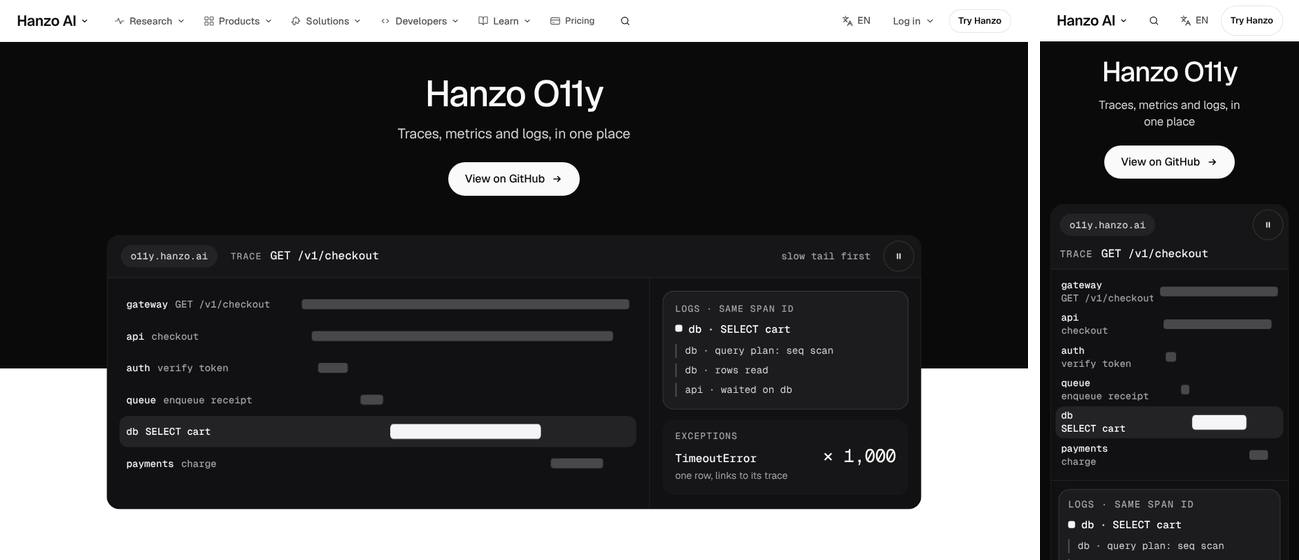
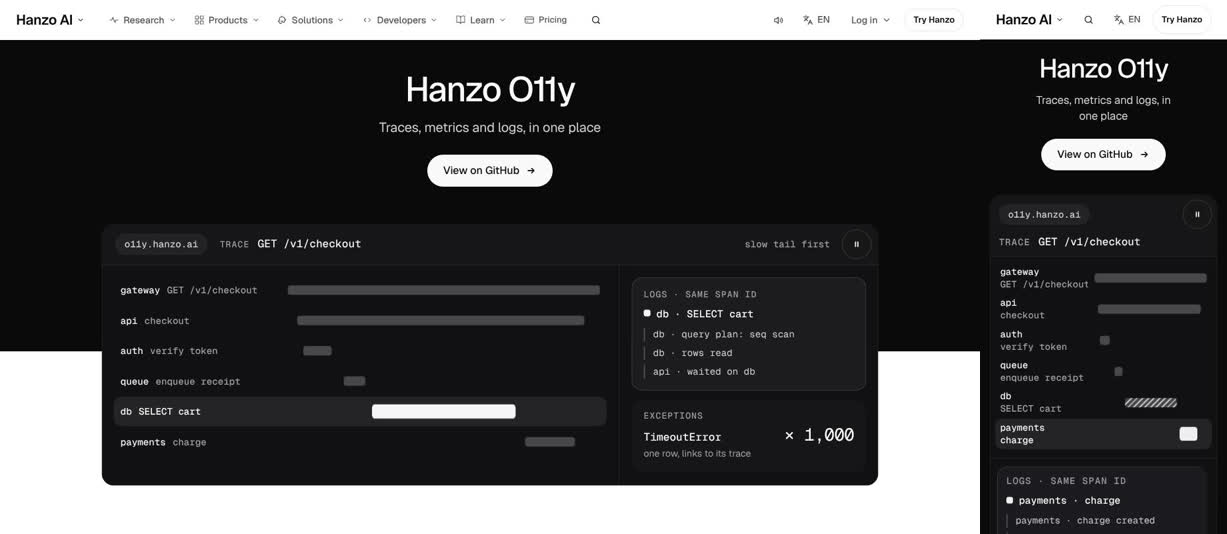
re-review: /o11y 6/10 after the system merge (hero window jumps, header ask turned hollow, labels over chapter heads)
Claude-Session: https://claude.ai/code/session_01DqUybEnABm6Lfey1goid2b

diff --git a/docs/review/o11y.md b/docs/review/o11y.md
@@ -1,66 +1,173 @@
 # /o11y: James-eye review
 
-Verdict: 7/10
-First complaint: "The top is right: our product, moving, one button. But every few seconds the window jumps and everything under it moves. Then it's the same page as Registry and MQ again: a white window, a little number over a heading, a row of dashes, a grey room, a paste box, two cards, Get O11y. Those tabs in the window look like I can click them and nothing happens. And once I'm past the top there's no button to get it."
+Verdict: 6/10
+First complaint: "The top's still the best bit: our product in the dark, moving, one button. But that window still jumps every few seconds. Then it's the Metrics page again, a white window with a little number over each heading, and it just sits there until I scroll. And the Try Hanzo button is switched off on this page, so once I'm past the top there's nothing to press."
 
-Reviewed: branch `claude/elegant-johnson-b2vx1q`. First walk @ `6c7583d` (page files as committed in `ade8095` + `c9784eb`), re-walked @ `3f456ca` after the Cloud 3 kit moved to MASTER.md (h1 52, deck greys). The page files are identical at both: hash `eade685f0c83`. The verdict is on the `3f456ca` state. At 14:55 the builder had uncommitted edits to `O11y.jsx`, `O11y.css` and `app/o11y/page.jsx` in the tree (a split head, a playhead); those are not reviewed.
-Walked 7 Nov 14:30–14:58 UTC on the dev server, moving, at 1470×801, 375×812 and 390×664. I recorded videos, frame sheets, per-stop audits, hover/press and tap probes, and a 13-second hero height log. The once-per-visit loader was skipped. The bar moved during the review: JAMES.md and MASTER.md changed at 14:37–14:45 (scale rhythm, the ask in the sticky header, nothing floating). Both walks are judged against the current text.
-Proof: `img/o11y.jpg` (desktop first screen | phone first screen, `3f456ca`).
+Reviewed: main @ `648b798` (last page commit `c9784eb`). Files hash: `d85c8f13fa2a`
+Walked 7 Nov 15:09–15:14 UTC on the dev server, moving, at 1470×801 and 375×812 (videos, frame sheets and a frame-difference motion log kept by the critic; the site loader was skipped).
+Proof: `img/o11y.jpg` (desktop first screen | phone first screen).
+
+## Since the last review
+- **No page change.** The five page files are byte-identical to the `3f456ca` build the last review judged; the last page commit is still `c9784eb` (14:33). What changed is the shared system (`648b798`, 15:06) and the rules. Under the 14:40 rules any banned-list item caps a page at 6, and a false card claim caps it at 7. So the 7 becomes a 6 with nothing on the page getting worse.
+- **Done, by the system fix:** nothing floats. No fixed button shows at any desktop stop (s1–s13), the walk's float list is empty at both widths, and there is no cursor label. On phone the new quiet "View on GitHub" bar shows only in the chapters (s2–s5), over empty white. Also passing now: no hue at either width, 0 console errors, 0 title tooltips, and the type has rhythm (answer 4).
+- **Still open: the jump.** The payments span still has 2 log lines and the others have 3. The window's bottom edge moves from y 726 to y 704 when the pivot goes from db to payments (desktop film, 6.0 s against 6.5 s). Desktop CLS blames `div.ob-pv-exc` and the whole pinned section under it. The pivot also still loops forever (`useSteps` runs `(v + 1) % n`); MASTER §4.1 says run once for 6–10 s, then settle.
+- **Still open: the ask.** `O11y.css` line 6 still forces the header's "Try Hanzo" to an outline. Since `648b798` the header *is* the ask: SYSTEM.md §5 says "It stays solid; it never outlines or fades". So desktop s1–s10 show no solid button at all. /metrics, walked at the same commit, shows the header solid on every screen.
+- **Still open:**
+  - the fake suite tabs;
+  - the six panes that only fade in and then stand still (desktop s1–s7 and phone s1–s5 measure shotdiff 0);
+  - 4317/4318 shown twice in a row;
+  - "What you keep" reprinting the chapter text word for word;
+  - no hover on "hanzoai/o11y 4 stars" or on the console's title.
 
 ## The 11 answers
-1. **Sells in 5 seconds, moves within 1 second?** Yes, and it's the best part of the page. "Hanzo O11y / Traces, metrics and logs, in one place / View on GitHub" sits over a dark trace window. The whole waterfall is on the first screen at 1470×801 and 375×812. First paint is about 0.8 s on the dev server. The title cuts in and the six bars draw at paint. Then the pivot opens a span's logs every 3.8 s. Hovering a span previews it, a click holds it, and pause stops it. One catch: at 1470×801 after the kit pass, the bottom 290px of the first screen are empty white, and nothing peeks from the next section.
-2. **One in, one out, or a document?** Mostly one in, one out. The intro's six wires draw into one query, then six chapters swap one pane each in a pinned suite. After that it turns back into a document: the OTLP room, the paste box, related cards, then the close.
-3. **A real object in every section?** Yes: the waterfall, the suite, the console, the agent prompt, the Sigil cards and the close's Sigil. But the six chapter panes are still pictures that only fade in (opacity plus 14px). The trace bars don't draw, the chart doesn't draw, the log lines don't stream. Only the intro wires, the tab ink and the alert routes actually move.
-4. **One ask, in the sticky header, nothing floating; does scale have rhythm?** No.
-   - On the first walk, the ask after the hero was the floating desktop pill. MASTER 3.3 now bans that ("anything floating over content: a pill bar").
-   - On the re-walk, no sticky ask appeared at all, at either width, across 16 scroll stops. On /mq and /enterprise the bar does rise, so this is specific to /o11y.
-   - Meanwhile `O11y.css` line 6 keeps the header's "Try Hanzo" outlined for the whole page. So from the end of the hero to "Get O11y" there is no solid ask anywhere.
-   - Scale rhythm: on the first walk, h1 128, h2 76, h3 51 and "Get O11y" 128 were all big at once. After the kit pass it has rhythm: h1 52, statement 44, chapter titles 32, figures 64, close 64.
-5. **Every hover and press answers, no jumps?** Mostly.
-   - These answer: the span rows (fill, ink, bar height, press 1px), the hero and close asks (fill, a 4px arrow nudge, press .97), the rail ticks (width and ink), the chips, Copy, and the related cards.
-   - These don't: the suite's six tabs (Traces, Metrics, Logs, Exceptions, Alerts, OTLP). They look like a real tab bar with an ink pill, but they are `aria-hidden` spans with cursor auto. Clicking "Logs" during chapter 1 does nothing.
-   - "Deploy to Cloud", "hanzoai/o11y 4 stars" and the console's title link have no hover. The console icons have no press.
-6. **Overlap, font swap, layout shift?** Layout shift, yes.
-   - The logs card alternates between 3 lines (db, api) and 2 lines (payments). The hero box changes height every pivot: 636↔658px on desktop, 865↔893px on phone.
-   - The Exceptions card hops 28px, and the whole page below moves with it. Logged CLS from that alone: phone 0.03 (0.08 on the first walk), desktop 0.003–0.015.
-   - No overlap and no font swap. The h1 box is steady.
-   - The red "1 issue" dev badge on every load is a hydration mismatch in the site footer (`FooterHTML`), not this page.
-7. **Which reference, and is its motion there?** apple.com product page: the pinned scene where one panel changes is there, and the intro's wires drawing into one query is a good authored beat. synchronized.studio (card opens into its page): not verified. The related cards lift and nudge, but I did not follow one into /cloud/logs. anthropic launch: no hero figure.
-8. **Different from its neighbours?** The hero medium is its own: a dark trace waterfall that pivots into logs. Nothing else in the family does that. Below the hero it is the shared Cloud 3 template. The order is the same as /registry and /metrics: hero → PinnedChapters → ClipWipe room → Paste → RelatedCards → LaunchClose. /mq, /node, /pubsub and /s3 are the same minus a part. The pinned screen is pixel-for-pixel the same idea: a white window on one side, "01" over a 32px h3, grey copy, a dash rail. The first screen's composition (centred title, one pill, a window below) is /mq's, inverted to black. `unique.py` passes because it checks declared sequences, not what the eye sees.
-9. **All 18 parts covered?** Mostly; see below. `docs/coverage/o11y.md` exists, but it claims "one solid button per screen" with the ask bar carrying it, and "no text under 14px". Neither holds at `3f456ca`.
-10. **Banned tells?**
-    - A floating pill bar over content (first walk; MASTER 3.3).
-    - A layout shift (answer 6).
-    - A small mono "01"–"06" over every chapter h3. JAMES 7 now allows 11–12px Zen Mono labels, but 3.3 still bans an eyebrow above a headline, so this is borderline.
-    - No UI hues: the only saturated colour on the page is the site footer's blue "Privacy choices" icon. `taste.py` passes.
-11. **Copy untouched?** Yes. Parity 58/58 text and 12/12 links. Demo strings (span names, log lines, the query) are labelled examples. A few demo labels restate Hanzo's sentences in new words: "slow tail first", "same store as the traces", "one endpoint variable · no agent to install", "opens the trace that raised it →". They are not in `content/ui-strings.json`.
+1. **Sells in 5 seconds, moves within 1 second?** Yes. This is still the best part of the page.
+   - Desktop: "Hanzo O11y" (52px), "Traces, metrics and logs, in one place", "View on GitHub" (y 232) and the whole dark trace window (y 336–726) are on the first screen.
+   - The title cuts in and the six bars draw. The first second after paint has 6/25 moving frames.
+   - Then the pivot opens a span's logs every 3.8 s: db, then payments, then api (sheet 02). Both shots at s0 fell between two pivots (shotdiff 0), but the film shows the pivot running.
+   - Phone: the 40px title, the lede, the ask (y 211) and all six spans fit inside 812px, with 10/25 moving frames in the first second and shotdiff 4.32 in the dwell.
+   - Minor: at 1470×801 the bottom 75px is blank white and nothing of the next section peeks (MASTER §3 asks for a 56px peek).
+   - The desktop film shows the title clipped ("O11v") for about 2 s at the start. The phone has it whole on its first frame, so I read this as the recorder lagging and don't score it.
+2. **One in, one out, or a document?** One in, one out, but only while you scroll.
+   - The statement "One store, one query language" opens the pinned suite. There, six wires draw into one query, then six chapters swap one pane each, with the tab ink gliding.
+   - The grey OTLP room enters as a rounded card, then come Paste, the related cards and "Get O11y".
+   - Once a chapter has arrived, nothing on it moves. Desktop s1–s8 and s10 are STILL (shotdiff 0 to 0.005): 9 of the 12 page stops. On phone, s1–s6 are STILL: 6 of 11.
+   - The panes come in by opacity and a 14px rise. The trace bars don't draw, the chart line doesn't draw and the log lines don't arrive.
+   - Most of the page stands still with no input. That is JAMES.md's "nothing moves without input" for everything between the hero and the paste box.
+3. **A real object in every section?** Yes:
+   - the waterfall;
+   - the suite (the query, bars, chart, logs, the exception count, the routes, the ports);
+   - the console with its "Building" row;
+   - the agent prompt;
+   - two Sigil cards;
+   - the close's Sigil.
+4. **One ask, nothing floating, scale with rhythm?** The ask fails. Floats pass. Scale mostly passes.
+   - **Ask:**
+     - On the first screen, "View on GitHub" is the one solid button.
+     - After that, desktop s1–s10 have no solid ask anywhere, because the page's own CSS outlines the header's "Try Hanzo" (`O11y.css` line 6, at every width). The phone header is outlined too.
+     - On phone the quiet bar carries "View on GitHub" only on the four chapter stops. The only solid button after the hero is the selected "PromQL" chip at s9, which is a selected toggle, not an ask.
+   - **Floats:** none. There is no desktop pill and no cursor label, and the phone bar sits over empty white at s2–s5 and is gone from the OTLP room on.
+   - **Scale:**
+     - The first screen has one big thing, the window, under a 52px title.
+     - The intro statement is 44px, the chapter titles 32px, "Point an OTLP endpoint at it" 26px, the room's figures 64px, and "Get O11y" grows to 64px as it arrives.
+     - The page's own CSS rests two pane figures past 64px: "1,000" at 72px (`.ob-ex .lx-num`) and 4317/4318 at 82px (`.ob-ports .lx-num`). The walk's BIG×5 on the pinned stops counts the hidden panes too. On screen it is one big figure per chapter, so this is not "everything big".
+5. **Every hover and press answers?** Mostly.
+   - These answer on hover and press:
+     - "View on GitHub" (0.97);
+     - Pause (0.97);
+     - the span rows (fill, bar height, a 1px press);
+     - the rail ticks "01" and "02" (0.98);
+     - the unselected "What you keep" chips (0.98);
+     - Copy (0.92).
+   - Hovering "api checkout" logged a JUMP: the preview swaps a 2-line logs card for a 3-line one, and the box grows.
+   - Dead hover, no press: the console's "O11y — Hanzo" title, and "hanzoai/o11y 4 stars" (only its underline darkens).
+   - No hover: the selected "PromQL" chip.
+   - No press: the console's "O11y" and "Dashboards" links.
+   - The suite's six tabs (Traces … OTLP) still look like a tab bar with an ink pill, but they are `aria-hidden` spans and do nothing on a click.
+   - Phone: tapping "04: Exceptions" showed no change. Pause, "api checkout", "01", "PagerDuty or Opsgenie" and Copy answer.
+6. **Overlap, font swap, layout shift?**
+   - Layout shift, yes:
+     - the hero window changes height by 22px every pivot (answer above), and the page under it moves with it;
+     - phone CLS is 0.084 (the paste box, the related cards and the close; the lab target is 0.02), and phone s9 logged the page drifting 34px between two shots with no input.
+   - No overlap at either width. No font swap: one h1 box reading at each width. No sideways scroll at 375 or 320.
+7. **Which reference, and is its motion there?**
+   - apple.com product page: yes. A pinned scene where one panel changes, and the wires drawing into one query is a real authored beat.
+   - motion.dev: the tab ink glide and the logs card opening with a clip are there.
+   - synchronized.studio: the related cards are meant to open into their pages, but the walk did not follow one.
+   - anthropic launch: there is no hero figure.
+8. **Different from its neighbours?** The hero, yes; the rest, no.
+   - No other walked page has a centred title in a black band over a dark trace window that pivots into its logs.
+   - Below the hero it is /metrics, walked at the same commit, part for part:
+     - `PinnedChapters`: a white window beside an h3 with a dash rail;
+     - a `ClipWipe` grey room with `LaunchConsole` (the same gateway / payments-api / checkout-web / docs-site rows);
+     - "Paste and ship";
+     - `RelatedCards` with contour Sigils;
+     - the `LaunchClose` "Get X" with its Sigil card.
+   - Even `rate(http_requests_total[5m])` appears on both pages.
+   - /registry has the identical part list. /mq, /network, /node, /pubsub and /s3 are the same minus a part (checked from source).
+   - James: "It's not just a template."
+9. **All 18 parts covered?** No; see below. The card has all 18 parts as numbered paragraphs, but five of its claims fail the walk.
+10. **Banned tells?** Yes:
+    - **A layout shift:** the hero jump, and phone CLS 0.084.
+    - **A label directly above a headline:** "01" to "06" (12px Zen Mono) sit directly over each 32px chapter heading at 1470×801 (shot s2, "01" over "Traces and APM"). The phone hides them.
+    - **A dead middle:** 9 of the 12 desktop stops are STILL.
 
-## Missing from the 18 parts (MASTER part 2 / PLAN-COMPONENTS §2.1–2.18, measured)
-- **Part 1 / 4, Conversion:** no sticky ask after the hero (answer 4). The header ask is forced to an outline by page CSS rather than carrying "View on GitHub". The pressed "PromQL" chip is a solid ink pill on the same screen as the ask.
-- **Part 3, Narrative:** no proof strip or objection strip before the close. The first screen at 1470×801 leaves about 290px of empty white with no peek.
-- **Part 6, Content:**
-  - At `3f456ca`, "What you keep" and the "01"–"06" kickers are 12px on desktop, and "Related capabilities" is a 12px h2.
-  - On phone, "Agent prompt", "api" and "/v1/o11y" are 12px, and the close facts ("License:", "Apache-2.0", "hanzoai/o11y", "4 stars") are 13px. Floors are 13 desktop and 14 phone.
-  - Repeats: 4317/4318 appear in chapter 6's pane and then again as huge figures in the OTLP room straight after. "What you keep" re-prints chapter paragraphs word for word ("Dashboards and alerts: An alert rule is a saved query…").
-- **Part 8, Components:** a fake tab bar (looks like tabs, is not one). The pause button's press is overruled by its hover scale on the first walk. It presses .97 after the kit pass.
-- **Part 9, Motion:** the pivot loops forever. MASTER 4.1 says a cloud demo runs once for 6–10 s, then settles. Chapter panes are fade-ups (answer 3).
-- **Part 11, Mobile:** at 320px there is no sideways scroll, but the suite's panes run to 337px inside their clip, so the query and log rows are cut off at the right edge.
-- **Part 12, Accessibility:** "What you keep" is 4.35:1 after the kit pass. Everything else measures 4.5:1 or better with true backgrounds.
-- **Part 17, States:** none needed (static figures). Reduced motion settles: no infinite animation, and the first screen is still. JS off: every one of Hanzo's words shows; 55 demo strings in the inactive panes stay hidden.
+    Clean: no hues, nothing floating, no opacity-only hover, no tooltips, no overlap, no sound code of its own (nothing plays on hover, scroll or load), and 0 console errors at both widths.
+11. **Copy untouched?** Yes.
+    - Parity is 58/58 text and 12/12 links.
+    - The 41 new strings are demo data (span names, log lines, the query, routes) and labels.
+    - A few restate Hanzo's sentences in new words: "slow tail first", "same store as the traces", "one row, links to its trace", "opens the trace that raised it →", "one endpoint variable · no agent to install".
+    - "× 1,000" stands for Hanzo's "a thousand of the same stack trace".
+    - Nothing adds a claim. "What you keep" and the chip labels are not in `content/ui-strings.json`.
+
+## Missing from the 18 parts (MASTER §2, measured; coverage card checked)
+- **Coverage card:** `docs/coverage/o11y.md` covers all 18 parts as numbered paragraphs, but five claims are false:
+  - Part 1: the ask is "carried by the site's sticky ask bar after the hero". There is no desktop bar, and 0 solid buttons on desktop s1–s10. On phone the bar shows only at s2–s5.
+  - Part 4: it "feeds the site's ask bar (desktop pill and phone thumb bar)", and the outlined header gives "one solid button per screen". The desktop pill no longer exists, and desktop s1–s8 show no solid button at all.
+  - Part 6: "No label above any headline". "01"–"06" sit over every chapter heading on desktop.
+  - Part 7: "LaunchType scale (display 128, headline 56, lede 24, body 19, Zen Mono 13 kickers)". The walk measures 52 / 26–44 / 20 / 16 / 12.
+  - Part 11: "no text under 14px" on phone. 9 phone runs are 12px, and "Agent prompt", "api" and "/v1/o11y" are not capitals.
+  - The card also lacks the open copy questions and the requested shared changes above part 1.
+  - This caps the page at 7.
+- **Part 1 / 4, conversion:**
+  - `O11y.css` line 6 outlines the header's "Try Hanzo" at every width, which undoes the system fix (SYSTEM.md §5). After the hero, nothing solid carries the ask on desktop.
+  - The metric is `api_key_created`, but the page's one action is a GitHub click.
+- **Part 3, narrative:**
+  - The pivot loops forever instead of running once and settling.
+  - Nothing peeks under the first screen at 1470×801.
+  - There is no proof strip before the close.
+- **Part 6, content:**
+  - 4317/4318 appear in chapter 6's pane at 82px, then again at 64px in the OTLP room straight after.
+  - "What you keep" reprints chapter paragraphs word for word ("Metrics Write PromQL if you already have it…").
+  - Two pane figures rest past 64px.
+  - Phone labels at 12px, in lower case, in the paste bar.
+- **Part 7, visual system:**
+  - "01"–"06" sit over the chapter headings.
+  - `O11y.css` has 41 literal hex values, 30 of them outside the deck: `#f5f5f7` ×8, `#d1d1d6` ×4, `#a1a1a6` ×4, `#8e8e93`, `#48484a`, `#424245` and `#161618` ×2 each, and `#f2f2f4`, `#c7c7cc`, `#232326`, `#1d1d1f`, `#1c1c1f` and `#111113` once each.
+  - Radii of 3, 4, 14, 18 and 22px are off the token list.
+  - The suite window is both outlined (a 1px ring) and raised (`0 40px 100px -40px`); part 7 says one or the other.
+- **Part 8, components:**
+  - The fake tab bar.
+  - Dead hovers on the console title, "hanzoai/o11y 4 stars" and the selected chip.
+  - No press on the console's links.
+- **Part 9, motion:**
+  - The six panes only fade in (opacity plus 14px), then stand still: desktop s1–s7 and phone s1–s5 measure shotdiff 0.
+  - Scroll drives everything between the hero and the paste box.
+- **Part 11, mobile:**
+  - The chapters still pin on phone; part 11 says stack them under 900px.
+  - Phone CLS is 0.084.
+- **Part 12, accessibility:**
+  - "What you keep" is `#737373` on the room's `#f5f5f7`: 4.4:1, computed from source. Part 12 says `#737373` fails on `#f5f5f5`.
+  - The walk's 1.0:1 and 1.5:1 on the h1 and lede are a measuring error (the black is painted by `.ob-hero::before`; the shots show white on black), so I don't count them.
+- **Part 13, performance:** desktop CLS 0.004 comes from the hero jump, and phone CLS is 0.084. Both are over the 0.02 lab target.
 - Passing:
-  - one h1 and one main;
-  - `data-cta` on both asks and `data-thumb` on both;
-  - Persona/Goal/CTA/Metric in the header;
-  - no raw img, video, table or select;
-  - 44px targets on phone;
-  - no sideways scroll at 320 or 375;
-  - one `title=` on the page, and that is the site chat button's.
+  - structure: one h1, visible with JS off; one main;
+  - colour and layout: no hue; no float; no overlap; no sideways scroll at 375 or 320; 0 targets under 44px;
+  - controls and asks: 0 `title=`; 2 `data-cta` and 2 `data-thumb`;
+  - kit and parts: no raw img, video, table or `.x-btn` markup; a Band at the end;
+  - motion and JS off: reduced motion settles (0 running after 3 s); JS off hides only 6 demo strings;
+  - copy, errors and proof: parity 58/58 and 12/12; 0 console errors; no sound code of its own; gallery proof in `docs/gallery/o11y/`.
 
 ## Fixes (in order)
-1. **Stop the jump.** Give every span the same log height: three lines each, or a fixed height on `.ob-pv-card ul`. The hero box must not change size when the pivot moves. Re-measure CLS at 375×812 with the hero in view for 15 s; it should be 0.
-2. **Put the one ask where JAMES now says.** Delete `O11y.css` line 6 so the sticky header carries the solid ask after the hero (label "View on GitHub", via `data-thumb`). Find out why the bar never rises on /o11y when it does on /mq. Never float a pill over content on desktop.
-3. **Make the suite's tabs real or stop them looking like tabs.** Either make them buttons that jump the pinned scene to that chapter (`PinnedChapters` already has `jump(i)`), with hover and press, or set them as a quiet caption with no ink pill.
-4. **Break the template below the hero.** Give O11y one screen its siblings don't have. For example, make the waterfall itself the pinned object: scroll walks one request from trace to log to exception to alert, instead of a second white window that /registry and /metrics also use.
-5. **Cut the repeats.** Show 4317/4318 once: keep the OTLP room's figures and give chapter 6 a different object, or the reverse. Make "What you keep" answer with a small object (the query, the route list, the endpoint line), not a paragraph the reader just passed.
-6. **Make the panes move like the hero.** Draw the trace bars, draw the chart line, and stream the three log lines as each chapter arrives (they are fade-ups now). Let the hero pivot run once for 6–10 s and settle on the slow span, with replay on hover or press.
-7. **Floors and the last dead controls.** 13px desktop and 14px phone for "What you keep", the "01"–"06" kickers, "Related capabilities", the paste bar labels and the close facts; 4.5:1 on "What you keep". Give "Deploy to Cloud", "hanzoai/o11y" and the console title a hover that is not opacity, and give the console icons a press.
+1. **Stop the jump.**
+   - Give the logs card one height for every span: a `min-height` on `.ob-pv-card ul` for three lines, so the 2-line payments card no longer shrinks the window. The window bottom must stay at y 726 through a full cycle, and desktop CLS must read 0.
+   - Let the pivot run db → payments → api once (about 11 s) and settle on the slow db span. It replays on hover or click.
+2. **Give the ask back to the header.** Delete `O11y.css` line 6, the `html:has(main.ob) header[data-slot=masthead] a[href='https://hanzo.ai/signup']` rule. The header's "Try Hanzo" then stays solid at every width, as SYSTEM.md §5 and JAMES rule 6 say. Then correct parts 1 and 4 of the card.
+3. **Clear the chapter headings and the tabs.**
+   - Hide the "01"–"06" kickers on this page (`.ob .lx-pin-k { display: none }`), as the kit already does on phone. The rail's buttons already say "01: Traces and APM".
+   - Either make the suite's six tabs real buttons that scroll to their chapter (as the rail does), or remove the ink pill so they read as a caption.
+4. **Make each pane move once while you look**, like the hero:
+   - the trace bars draw from 0 (reuse the hero's `ob-draw`);
+   - the chart line draws (stroke-dashoffset, as the intro wires do);
+   - the three log lines come in one after another;
+   - "1,000" counts up once.
+
+   Each runs once, then rests, so the middle of the page is no longer still.
+5. **Cut the repeats and rest the figures.**
+   - Show 4317/4318 large only once: keep the OTLP room's, and set chapter 6's pane figures (`.ob-ports .lx-num`) and "1,000" (`.ob-ex .lx-num`) at 64px or below.
+   - Let "What you keep" answer by lighting the matching part of the suite (the query, the routes, the endpoint line) instead of reprinting a paragraph the reader just passed.
+6. **Floors, states and the card.**
+   - Set "Agent prompt", "api" and "/v1/o11y" to 14px on phone.
+   - Set "What you keep" in `#525252` on the grey room.
+   - Give "hanzoai/o11y 4 stars" and the console title a hover that changes more than the underline, and give the console's links a press.
+   - Swap the page's non-deck hexes for the deck's, and drop either the ring or the shadow on the suite.
+   - Then rewrite the card's parts 1, 4, 6, 7 and 11 to match, and add the copy-question and request lines.
